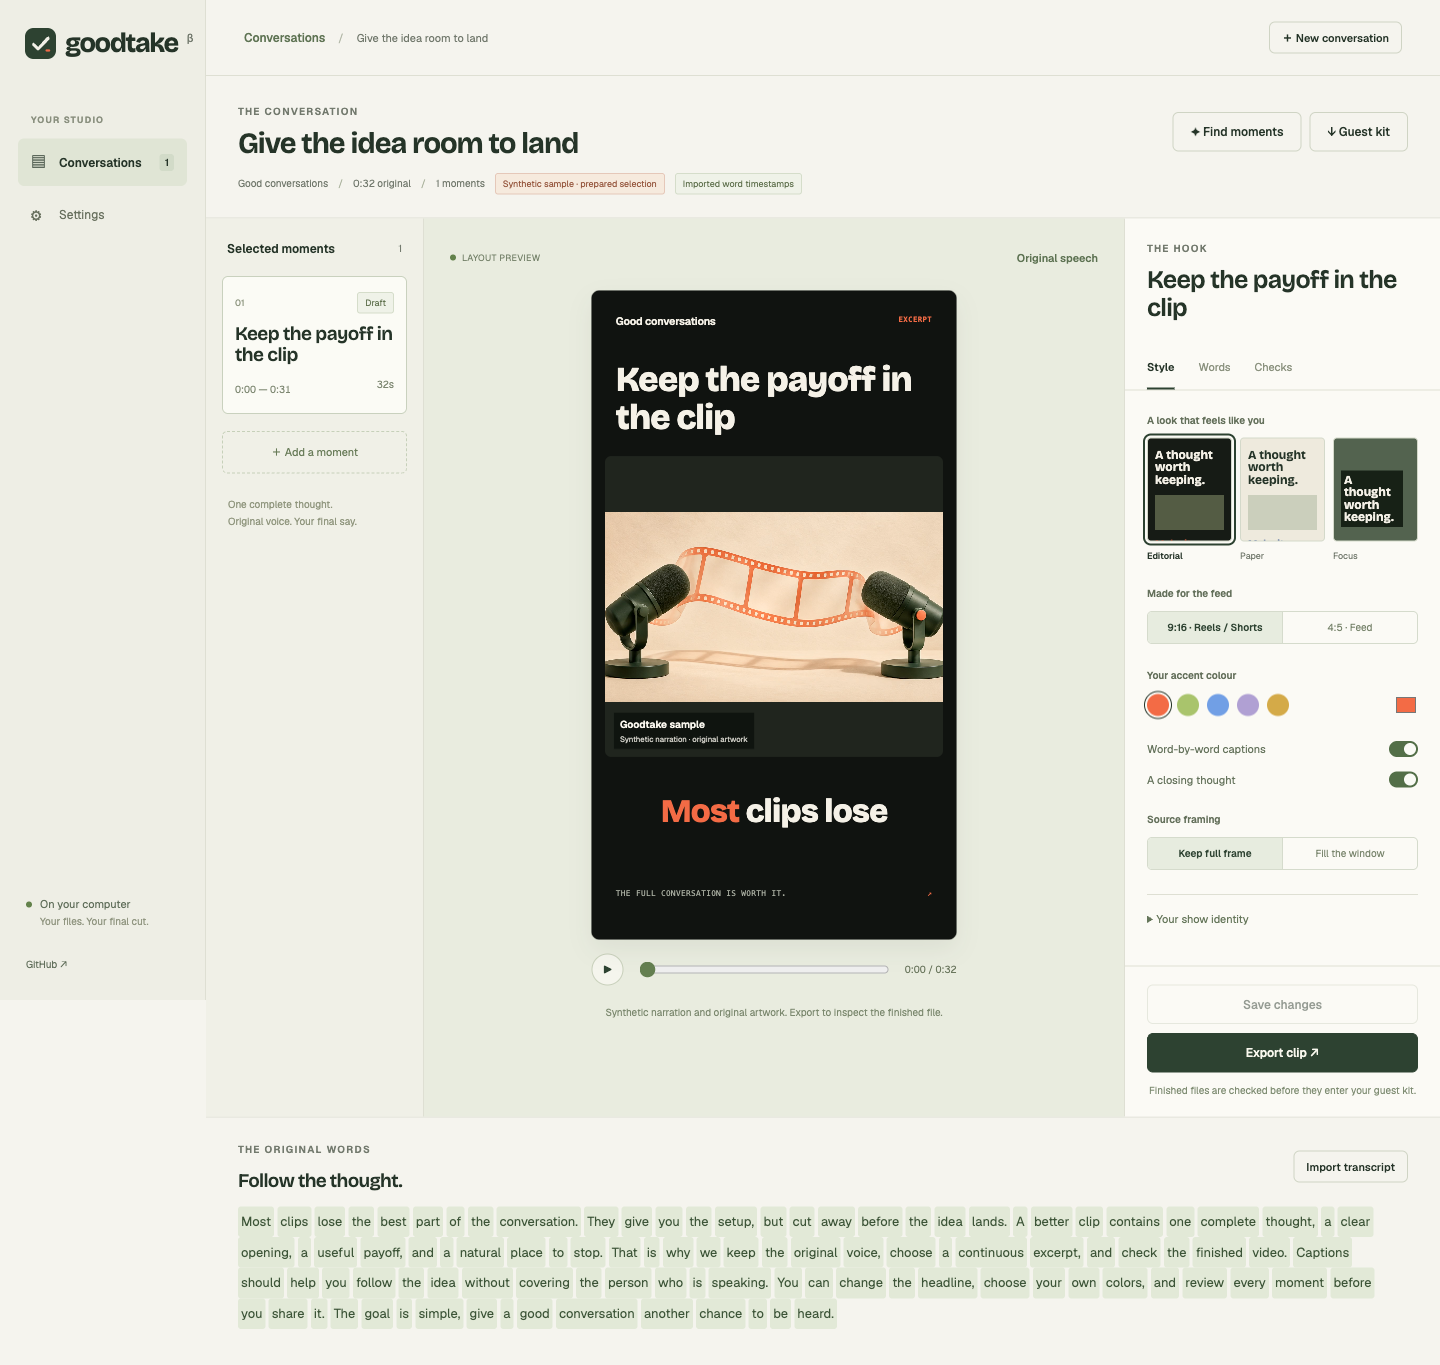
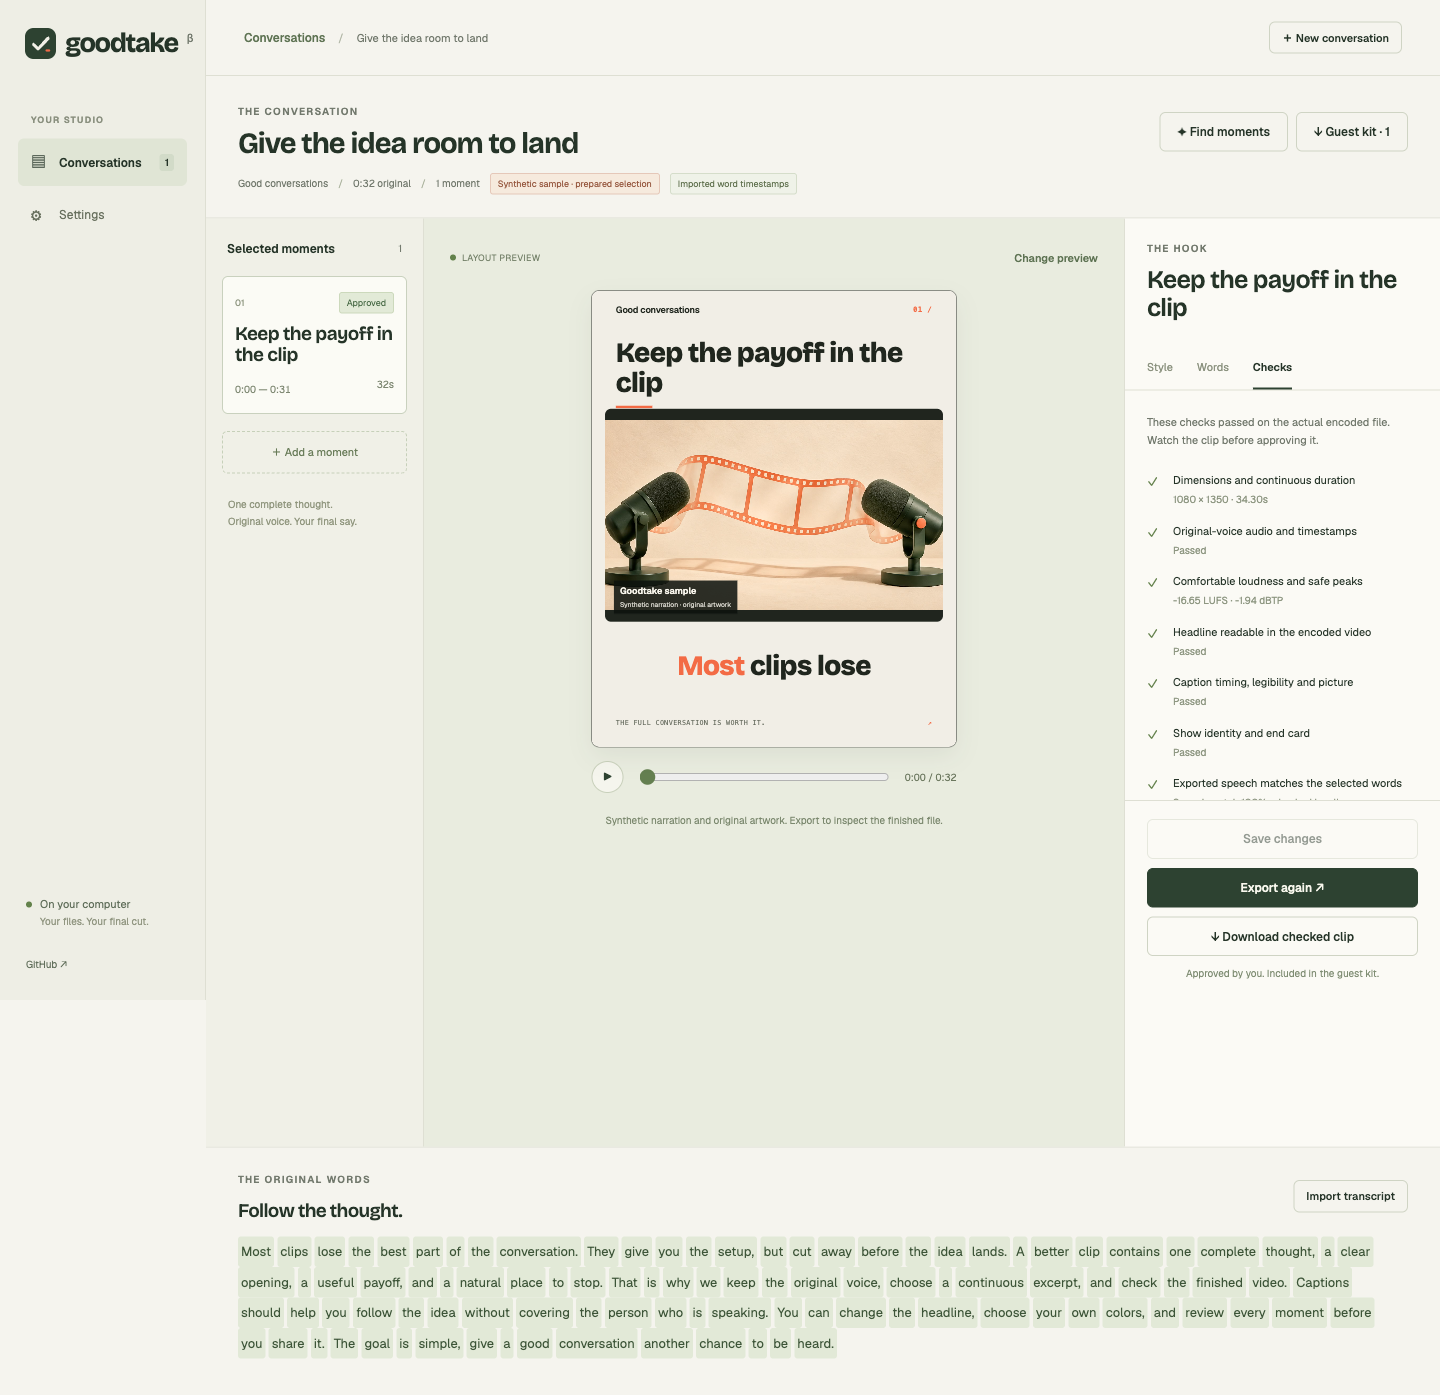
fix: preserve accurate export progress and source preview types

diff --git a/goodtake/server.py b/goodtake/server.py
@@ -3,6 +3,7 @@
 from __future__ import annotations
 
 import importlib.util
+import mimetypes
 import shutil
 from contextlib import asynccontextmanager
 from pathlib import Path
@@ -213,7 +214,10 @@ def create_app(store=None, *, testing=False, run_worker=True):
     @app.get("/api/projects/{project_id}/source")
     def source(project_id: str):
         project = store.get(project_id)
-        return FileResponse(store.directory(project_id) / project["source_file"], media_type="video/mp4")
+        return FileResponse(
+            store.directory(project_id) / project["source_file"],
+            media_type=mimetypes.guess_type(project["source_file"])[0] or "application/octet-stream",
+        )
 
     @app.post("/api/projects/{project_id}/transcript")
     async def transcript(project_id: str, file: UploadFile = File(...)):

diff --git a/goodtake/render.py b/goodtake/render.py
@@ -207,6 +207,8 @@ def render_clip(store, project_id, clip_id, checkpoint=lambda: None, progress=la
         from .quality import title_check
 
         title_check(work / "preview.png", props, work)
+        # Do not show the still renderer's completed receipt as the full video starts.
+        (work / "progress.json").unlink(missing_ok=True)
         run(
             ["node", runtime / "render.mjs", work / "props.json", work / "silent.mp4"],
             checkpoint=checkpoint,

diff --git a/README.md b/README.md
@@ -186,6 +186,8 @@ python scripts/check-wheel.py
   not a multitrack timeline.
 - CPU and memory are used for rendering/recognition. No GPU is required. A sample run is not a
   general speed benchmark.
+- Browser source preview depends on codec support; MP4 with H.264/AAC is the simplest source.
+  FFmpeg can render other inputs even when a browser cannot preview them directly.
 - At most four automatic drafts and two attempts to repair invalid reviewer evidence. Some
   conversations need manual selection; accepted moments survive later provider failures.
 - Picture/caption checks sample frames and speech matching is statistical. These checks do not
